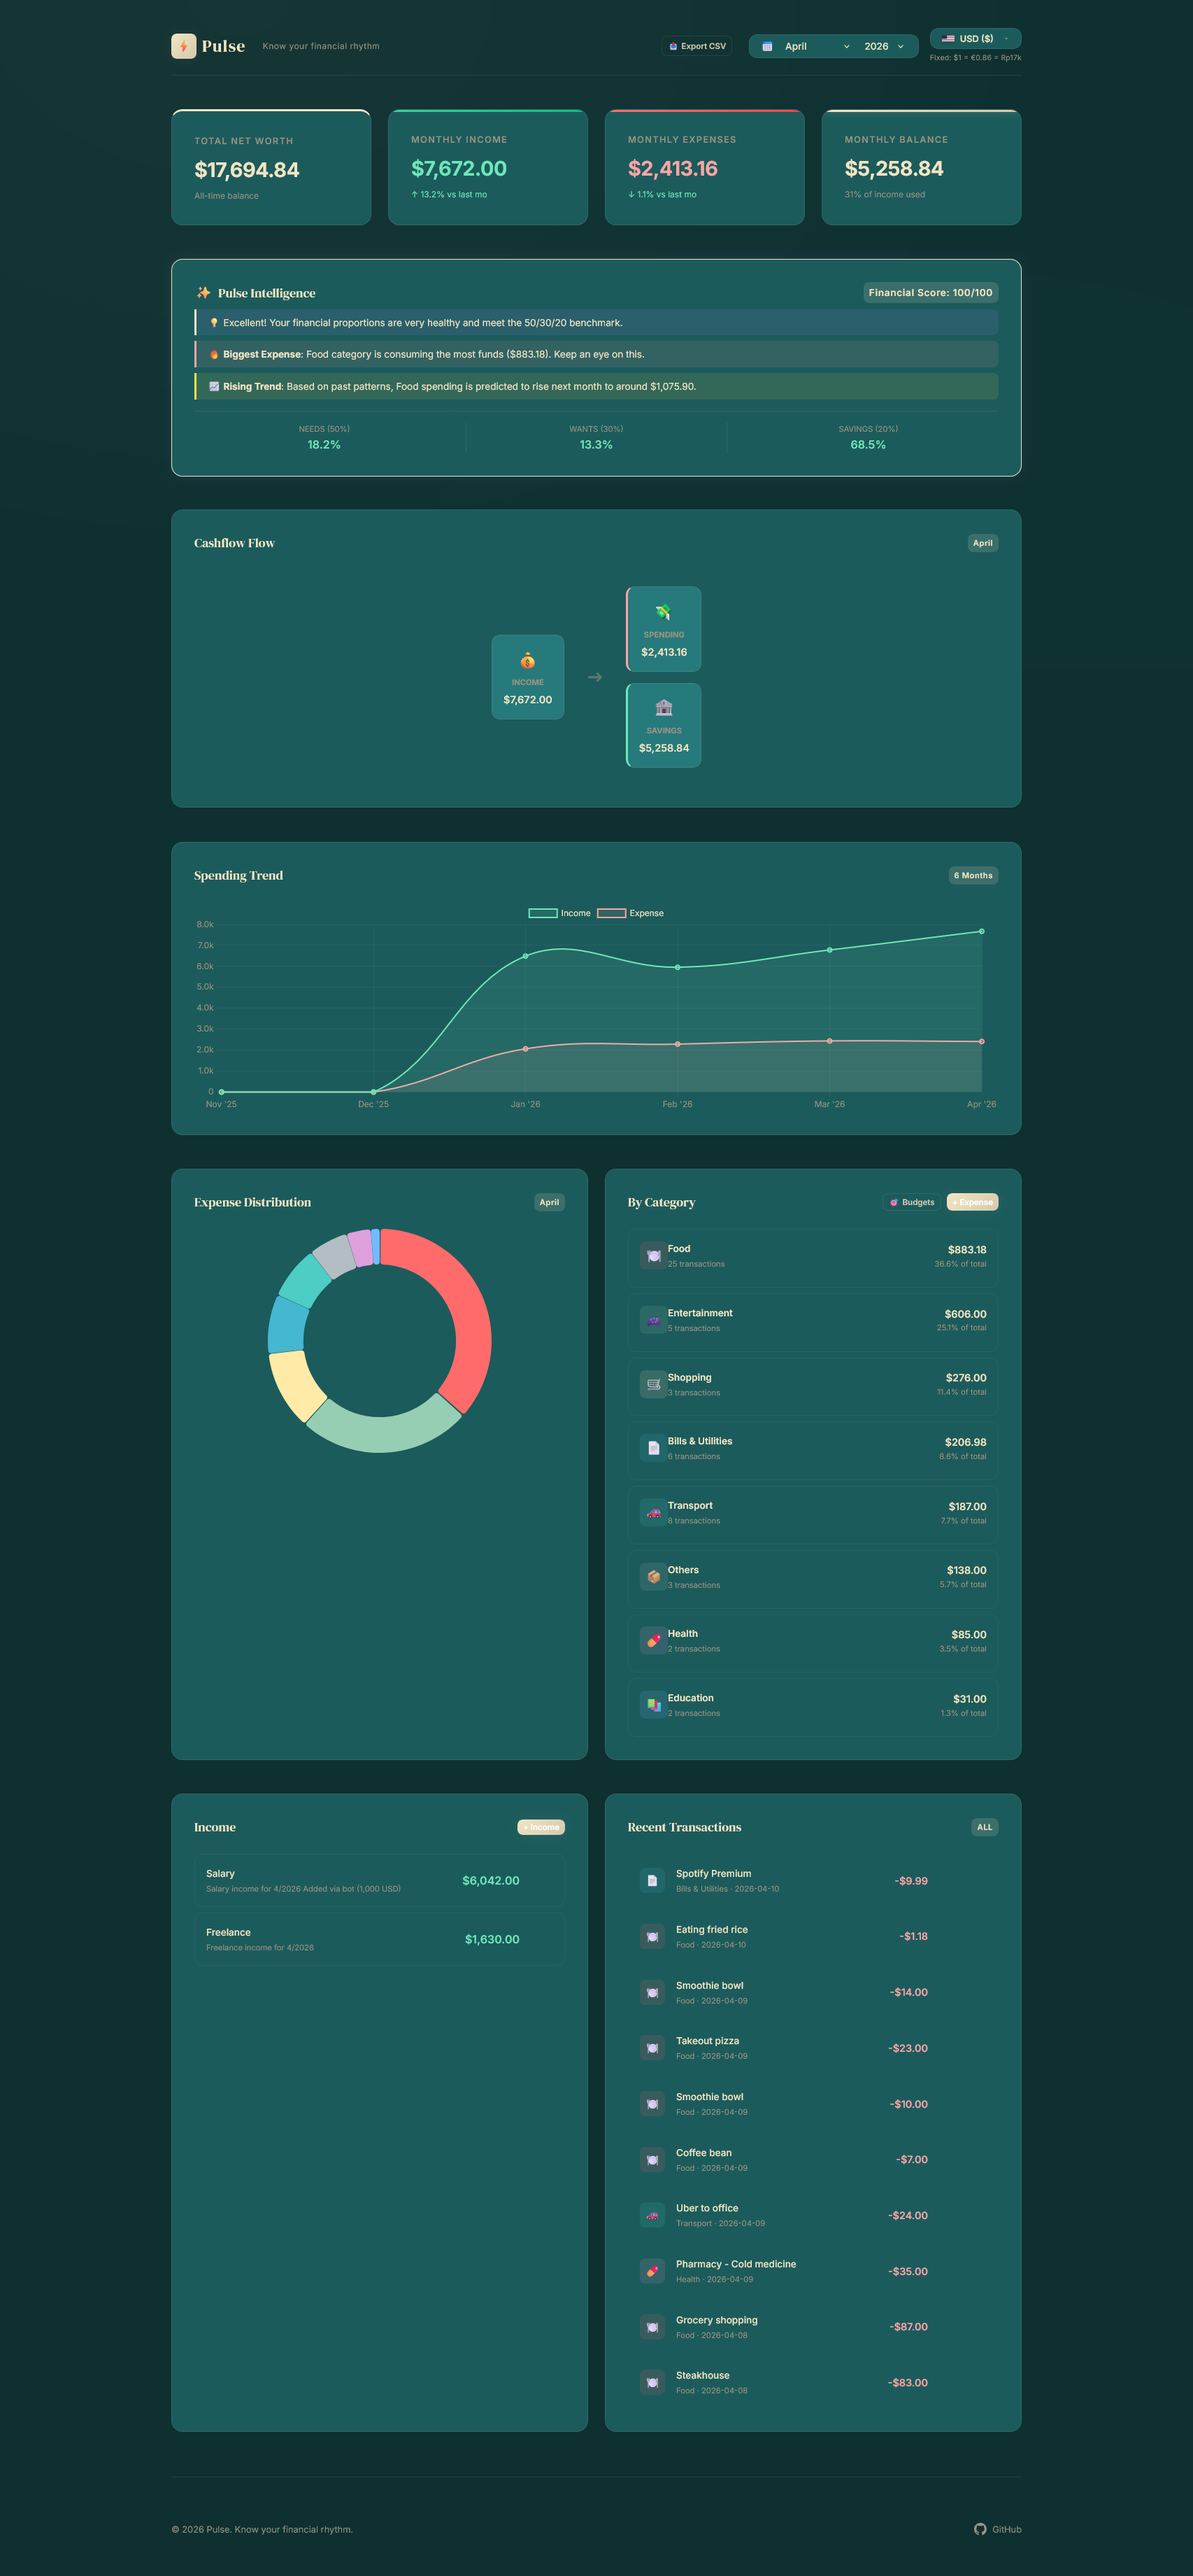
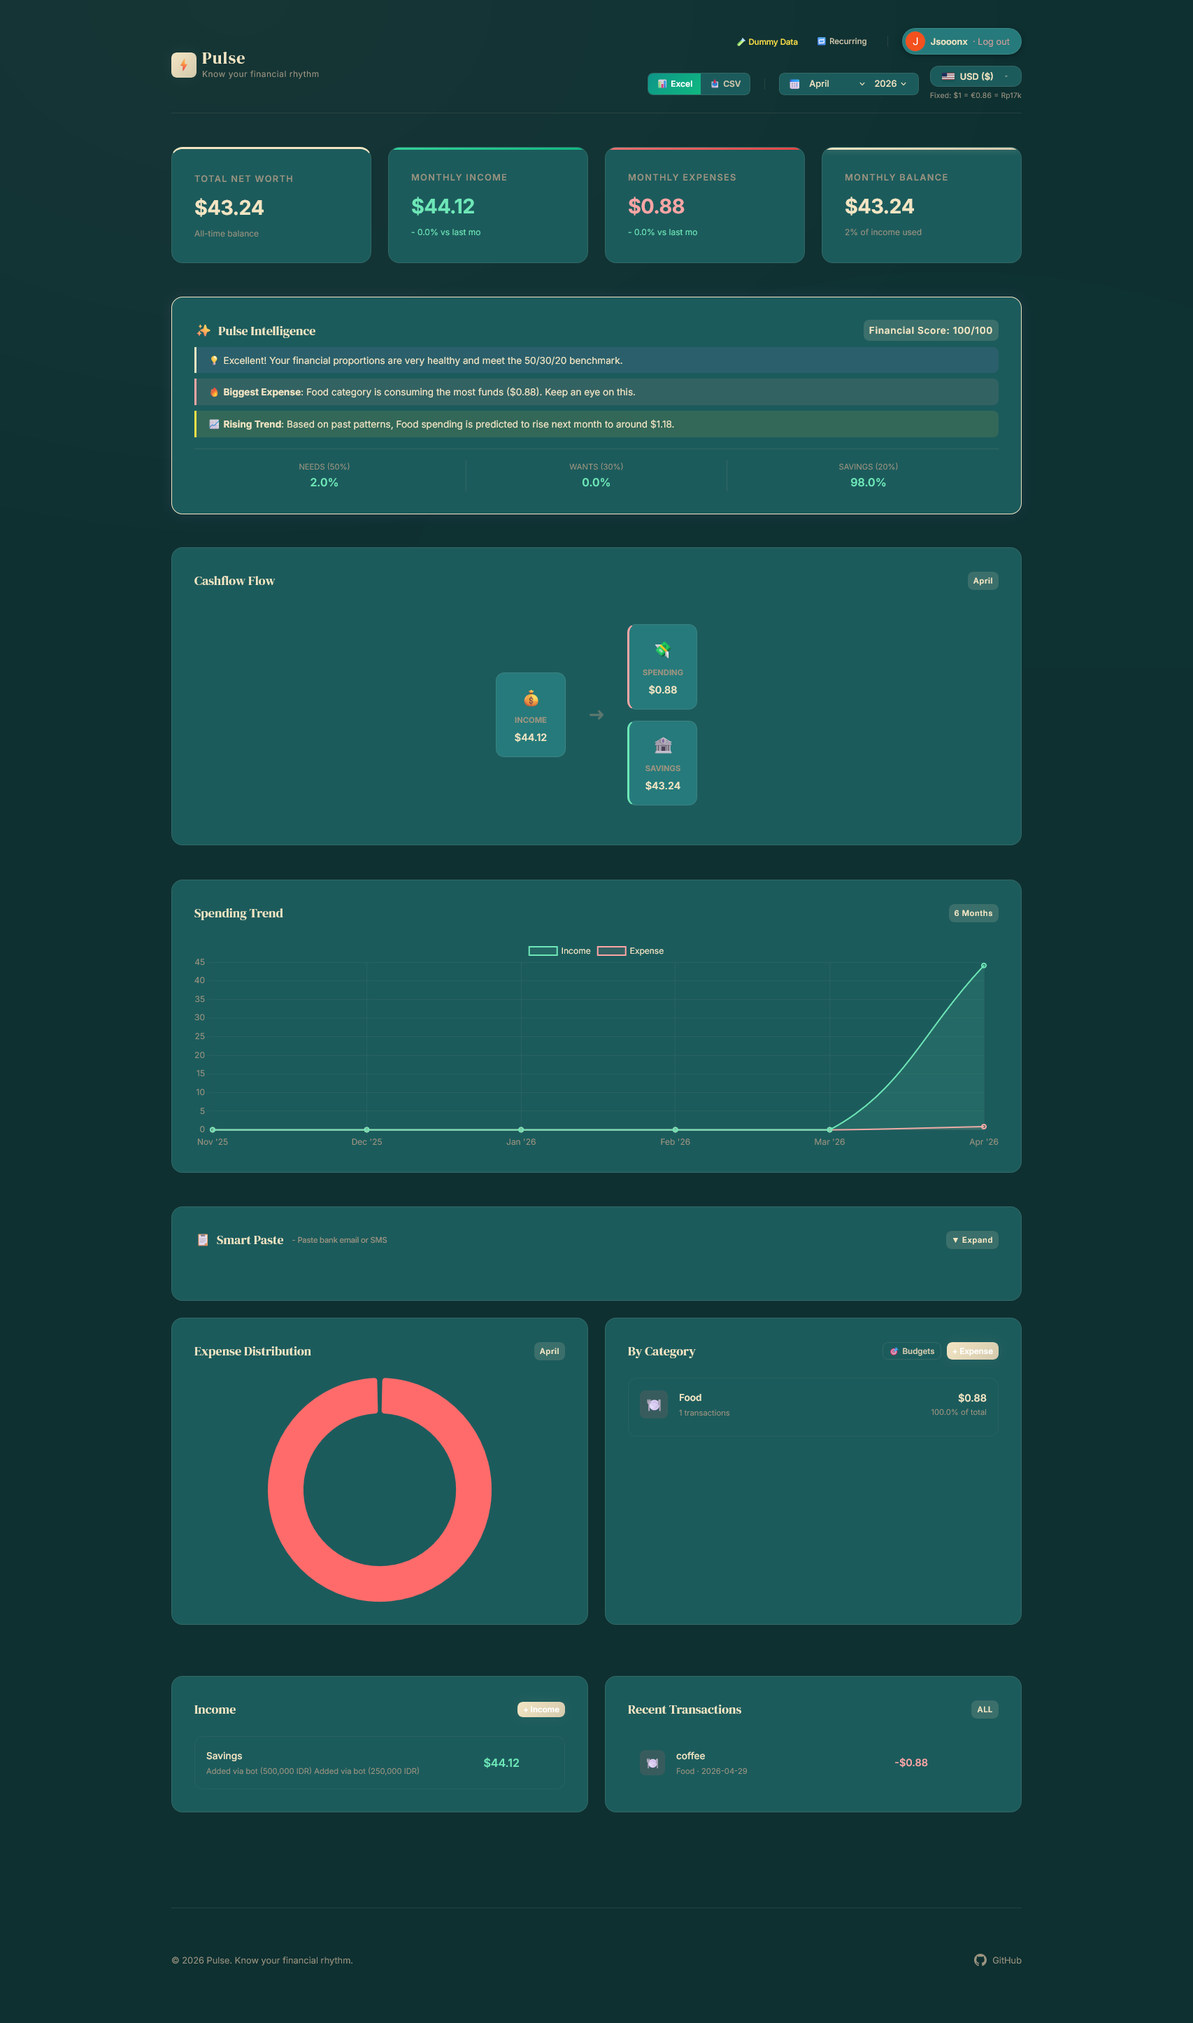
Fixing syncing bugs

Changed region(s): [[0.1243, 0.0, 0.8699, 0.9651]]

diff --git a/bot.py b/bot.py
@@ -190,7 +190,14 @@ async def start(update: Update, context: ContextTypes.DEFAULT_TYPE):
     
     if not user_id:
         msg += "⚠ *NOT LINKED:*\nYour Telegram is not linked to your Pulse Cloud account.\nClick the button below to link it!"
-        base_url = os.getenv('WEB_APP_URL', 'http://127.0.0.1:5000').rstrip('/')
+        
+        # Smart detection of base URL
+        base_url = os.getenv('WEB_APP_URL')
+        if not base_url or '127.0.0.1' in base_url or 'localhost' in base_url:
+            # If not set or pointing to local, try to use a default or let it be handled by context
+            base_url = "https://pulse-financialtracker.vercel.app" # Hardcoded safe fallback for your project
+            
+        base_url = base_url.rstrip('/')
         keyboard = [[InlineKeyboardButton("🔗 Link Pulse Account", url=f"{base_url}/link-telegram?chat_id={chat_id}")]]
         reply_markup = InlineKeyboardMarkup(keyboard)
         await update.message.reply_text(msg, parse_mode='Markdown', reply_markup=reply_markup)

diff --git a/README.md b/README.md
@@ -10,7 +10,8 @@ Pulse is a proactive personal finance application that goes beyond passive track
 ![SQLite](https://img.shields.io/badge/SQLite-3.41-blue?style=flat-square)
 ![Chart.js](https://img.shields.io/badge/Chart.js-4.4-blue?style=flat-square)
 
-**🌍 Live Demo:** [https://pulse-financialtracker-production.up.railway.app/](https://pulse-financialtracker-production.up.railway.app/)
+**🌍 Live Demo:** [https://pulse-financialtracker.vercel.app/](https://pulse-financialtracker.vercel.app/)
+
 
 ---
 
